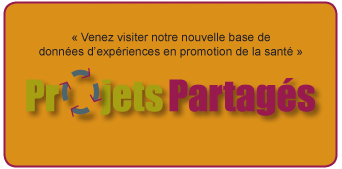
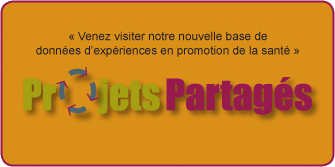
HomePAge :: inserer une capsule video
- ajout d'un logo projet partagé pour le lien
- ajout d'une div contenant la capsule video 'tous les clps'
- modification emplacement des deux autres vignettes
- modification css pour mise en place de la capsule video
- refactoring de la vignette projets partagé en texte et image

diff --git a/src/clpsbw/skin/skins/clpsbw_styles/homepage.css b/src/clpsbw/skin/skins/clpsbw_styles/homepage.css
@@ -2,7 +2,7 @@
 CLPS-BW 2.0
 AFFINITIC - AOUT 2013
 
-mauve #9a0546 
+mauve #9a0546
 bleu-titre #00728a
 bleu-border #20a3af
 vert background #afa61d
@@ -11,6 +11,39 @@ vert background #afa61d
 HOMEPAGE et NEWSLISTING
 
 **/
+
+
+#capsule-video{
+border:1px solid rgba(50,50,50,0.5);
+border-radius:8px;
+box-shadow:5px 5px 10px rgba(50,50,50,0.5);
+}
+
+#projet-partage-banner{
+width:342px;
+height:169px;
+text-align:center;
+box-shadow:5px 5px 10px rgba(50,50,50,0.5);
+background-color:#da8f18;
+border:2px solid #981a4d;
+border-radius:8px;
+}
+
+#projet-partage-banner a{
+display:inline-block;
+width:334px;
+height:159px;
+padding:10px 4px 0px 4px;
+}
+
+#projet-partage-banner a,
+#projet-partage-banner a:link{
+color:#000 !important;
+font-size:1.3em;
+border-bottom:none !important;
+font-weight:bold;
+}
+
 
 /*** CONTENT PLONE ***/
 article.clpsnews{
